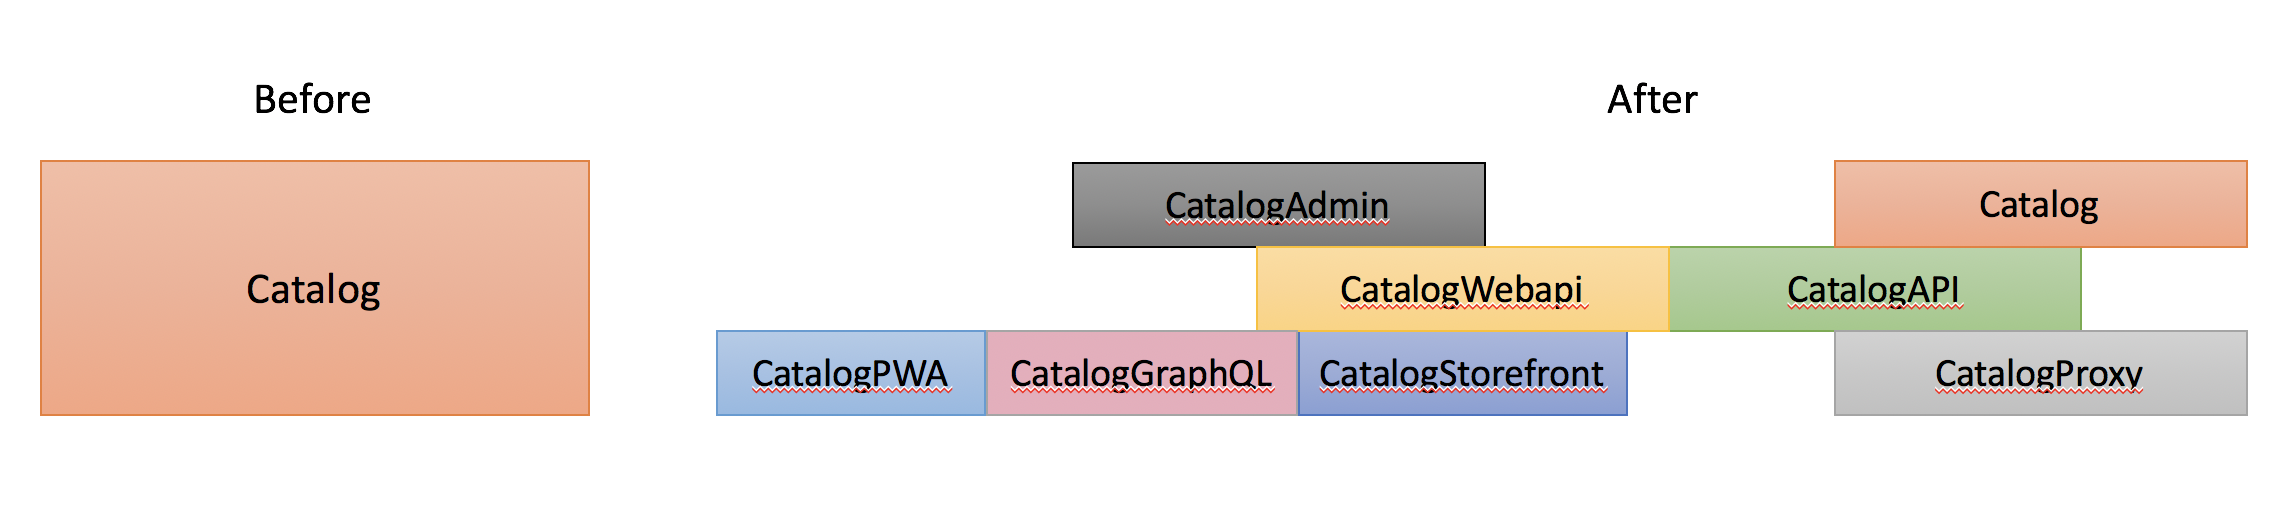
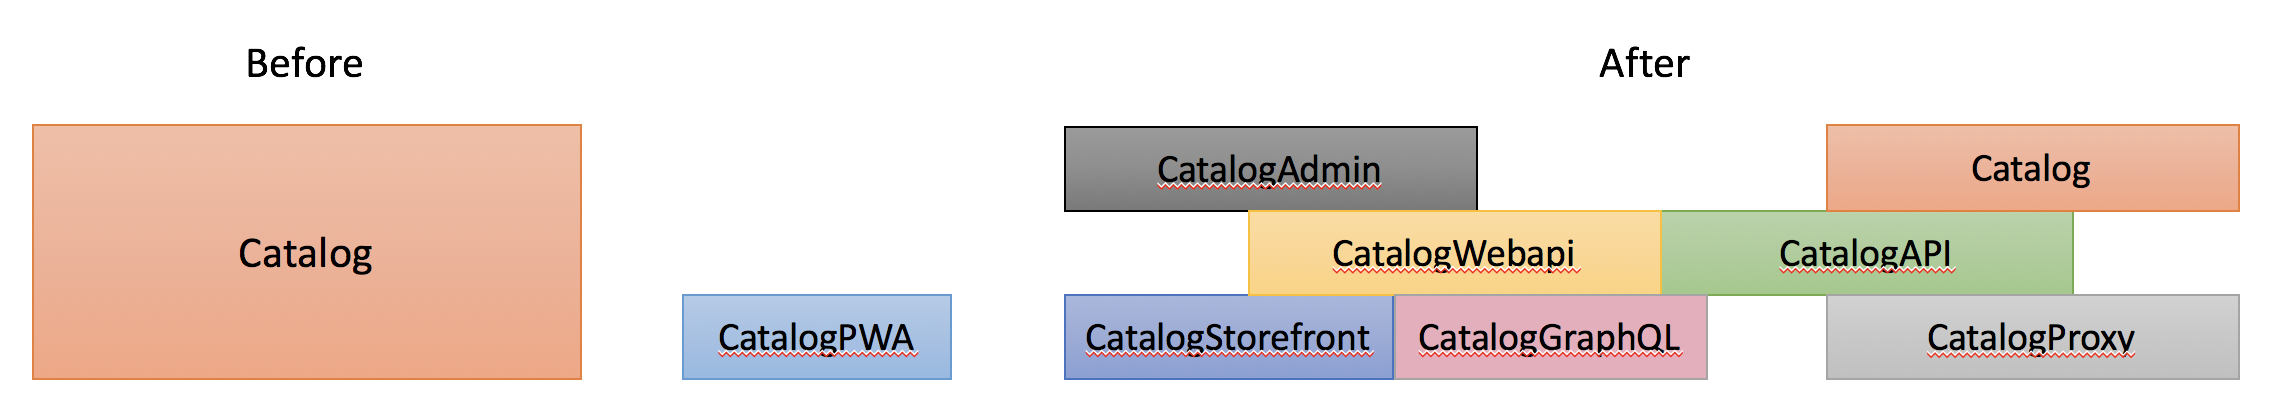
Renambed components to services, updated split modules diagram

diff --git a/design-documents/component-isolation.md b/design-documents/component-isolation.md
@@ -1,4 +1,4 @@
-# Magento Component Isolation
+# Magento Service Isolation
 
 Magento Commerce was designed as a monolithic modular application: all codebase is split to functional modules but is deployed together. This has following implications:
 
@@ -19,15 +19,15 @@ On data level, ability to split checkout and order management databases was intr
 
 ![Current State](component-isolation/current-state.png)
 
-### PWA & Component isolation
+### PWA & Service isolation
 The decision to move all UI to browser as a part of PWA effort significantly reduces number of undesired dependencies in codebase: most dependencies reside in UI, and will not be present in PWA implementation.
 
 ## Desired state
-Magento _components_ (Catalog, Checkout, Order Management, ...) are isolated and only communicate through service contracts.
+Magento _services_ (Catalog, Checkout, Order Management, ...) are isolated and only communicate through service contracts.
 
-A _component_ is a part of Magento application that consists of one or more modules and is responsible for an distinct business behavior.
+A _service_ is a part of Magento application that consists of one or more modules and is responsible for an distinct business behavior.
 
-Examples of components:
+Examples of services:
    
 - Catalog
     - Magento/Catalog
@@ -43,46 +43,46 @@ Examples of components:
     - Magento/CheckoutAgreements
     - ...
     
-Unlike in the initial plan, the requirement to communicate through service contracts only applies to components, not modules. This significantly reduces the scope of required modifications and makes implementations and customizations easier. 
+Unlike in the initial plan, the requirement to communicate through service contracts only applies to services, not modules. This significantly reduces the scope of required modifications and makes implementations and customizations easier. 
 
 Upsides:
 
-* scalability – components can be scaled independently on Magento instances
-* deployment – components can be deployed independently
-* replaceability – it is easier for System Integrators to replace Magento built-in components with third-party systems
+* scalability – services can be scaled independently on Magento instances
+* deployment – services can be deployed independently
+* replaceability – it is easier for System Integrators to replace Magento built-in services with third-party systems
 * teams have clear ownership boundaries
-* easier to comprehend components
-* clear contracts between components
-* granular releases - components can be released independently
-* in isolated components it is easier to use data storage with more appropriate storage models.
-* easier to experiment and replace components
+* easier to comprehend services
+* clear contracts between services
+* granular releases - services can be released independently
+* in isolated services it is easier to use data storage with more appropriate storage models.
+* easier to experiment and replace services
 
 Downsides:
 
-* Performance hit of inter-component communication
+* Performance hit of inter-service communication
 * Instance maintenance – it is harder to manage distributed Magento instance. This needs to be compensated with improved logging, tracking, debugging, and deployment capabilities.
-* Any component can be replaced with a remote implementation
+* Any service can be replaced with a remote implementation
 
-![Desired State](component-isolation/desired-state.png)
+![Desired State](service-isolation/desired-state.png)
 
 Current deployment model (single app) must be supported for clients that don't require advanced scalability.
 
-Following application components are identified to be isolated as of now (the list is not final):
+Following application services are identified to be isolated as of now (the list is not final):
 
-![Isolatd magento components](component-isolation/magento-components.png) 
+![Isolatd magento services](service-isolation/magento-services.png) 
 
 ## Implementation
-To achieve the desired state two sets of changes are required: platform modifications and component isolation.
+To achieve the desired state two sets of changes are required: platform modifications and service isolation.
 
 ### Platform modifications
 
 To support current ecosystem the platform and main APIs will have to stay the same (PHP, Magento Framework).
 
-Part of platform work is required to allow independent component deployment (module separation, application framework, configurable service invokers, backends for frontends, support for split extensions in marketplace), other part is good to have to make independently deployed components manageable (cloud native, development environments).
+Part of platform work is required to allow independent service deployment (module separation, application framework, configurable service invokers, backends for frontends, support for split extensions in marketplace), other part is good to have to make independently deployed services manageable (cloud native, development environments).
 
 ### Application framework
 
-Following library components are currently implemented as Magento modules. Many modules depend on these library components. It clutters module dependency graph. Effectively they will be required for most application components. So these library components (or application-agnostic parts of them) should be moved to `Magento\Framework` to reduce clutter in module dependencies:
+Following library components are currently implemented as Magento modules. Many modules depend on these library components. It clutters module dependency graph. Effectively they will be required for most application services. So these library components (or application-agnostic parts of them) should be moved to `Magento\Framework` to reduce clutter in module dependencies:
 
 * Amqp
 * Config
@@ -99,19 +99,19 @@ Following library components are currently implemented as Magento modules. Many 
 
 As of 2.3-develop, Magento service contracts can be called in process, or through REST, SOAP, and AMQP APIs by remote clients. But remote calls require manual implementation of client. Magento should be able to invoke service contracts either locally or remotely (if a service whose contract is called is deployed remotely). Two options to implement this are discussed:
 
-* Introduce service contract invoker that should be used by every client to invoke service contract. For local calls such invoker would just call a service contract, for remote components it would do a remote call. This option gives more control over service contract invocation, but requires modification of all current service contract clients
+* Introduce service contract invoker that should be used by every client to invoke service contract. For local calls such invoker would just call a service contract, for remote services it would do a remote call. This option gives more control over service contract invocation, but requires modification of all current service contract clients
 
-* Auto-generated remote call proxies for service contracts that represent remote components. This option does not require code modifications but will produce harder to debug code
+* Auto-generated remote call proxies for service contracts that represent remote services. This option does not require code modifications but will produce harder to debug code
 
-Remote invoker must contain improved logging, timeouts, retry logic, and circuit breakers to avoid failure state propagation between components.
+Remote invoker must contain improved logging, timeouts, retry logic, and circuit breakers to avoid failure state propagation between services.
 
 First iteration of remote implementation should be based on existing synchronous APIs.
 
-Long-term goal: To avoid the leaky abstraction of remote invocations, new generation of service contracts has to expose asynchronous nature in APIs to avoid runtime coupling between components.
+Long-term goal: To avoid the leaky abstraction of remote invocations, new generation of service contracts has to expose asynchronous nature in APIs to avoid runtime coupling between services.
 
 ### Backends for frontends
 
-Following entry point components need to be created for two main application clients: storefront and admin apps (admin, integrations). These endpoint components (backends for frontends or BFFs) should act as façades to corresponding functionality:
+Following entry point services need to be created for two main application clients: storefront and admin apps (admin, integrations). These endpoint services (backends for frontends or BFFs) should act as façades to corresponding functionality:
 
 * Storefront PWA BFF
   * launch PWA Application shell with page data (product information, category information)
@@ -134,7 +134,7 @@ To support real and proxied implementations of modules, the APIs should be extra
 
 Following diagram demonstrates the split:
 
-![Split module](component-isolation/split-modules.png)
+![Split module](service-isolation/split-modules.png)
 
 * *CatalogPWA* - js module deployed on PWA host
 * *CatalogStorefront* - deployed on GraphQL endpoint
@@ -147,9 +147,9 @@ Following diagram demonstrates the split:
 
 ### Support for split extensions on Marketplace
 
-Current data model of Marketplace does not support multiple packages per extension. Since an extension can customize multiple components, it should be possible to create an extension that consists of multiple composer packages. Such extensions must be supported by Magento Marketplace.
+Current data model of Marketplace does not support multiple packages per extension. Since an extension can customize multiple services, it should be possible to create an extension that consists of multiple composer packages. Such extensions must be supported by Magento Marketplace.
 
-Example: MyVendorShippingMethod extension modifies shipment and checkout components. MyVendorShippingMethod extension consists of 2 composer packages in Marketplace: MyVendorShipment and MyVendorCheckout.
+Example: MyVendorShippingMethod extension modifies shipment and checkout services. MyVendorShippingMethod extension consists of 2 composer packages in Marketplace: MyVendorShipment and MyVendorCheckout.
 
 ### Cloud-native
 
@@ -158,7 +158,7 @@ Following changes are proposed:
 
 #### Application configuration
 
-Magento components must support centralized application configuration management.
+Magento services must support centralized application configuration management.
 
 >NOTE: supported since 2.2 with configuration stored in env.php.
 
@@ -191,8 +191,8 @@ Output:
 The tool should be able to:
 * generate list of composer.json based on following input:
     * list of extensions that need to be installed
-    * list of components deployed separately (`composer.json` files to generate)
-* check compatibility of API versions between modules of different components
+    * list of services deployed separately (`composer.json` files to generate)
+* check compatibility of API versions between modules of different services
 * analyse the distributed instance of magento:
     * check api version compatibility
     * display the list of distributed extensions
@@ -209,11 +209,11 @@ To make development of distributed instances easier, new developer environment m
 
 A prototype that uses Minikube VM with Kubernetes cluster is prepared. 
 
->NOTE: Distributed component deployment will make current Commerce/B2B linking approach impossible, so new approach of internal development environment installation must be used: installation of Magento modules from “path” type composer repositories (prototype working with Minikube is available).
+>NOTE: Distributed service deployment will make current Commerce/B2B linking approach impossible, so new approach of internal development environment installation must be used: installation of Magento modules from “path” type composer repositories (prototype working with Minikube is available).
 
 ## Design principles
 
-General principles to follow for component isolation:
+General principles to follow for service isolation:
 
 * Current service contracts SHOULD BE preserved for backward compatibility
 * All new service contracts MUST follow design principles described in technical guidelines + following principles:
@@ -222,13 +222,13 @@ General principles to follow for component isolation:
 * All new service contracts SHOULD expose asynchronous APIs
 * All new state modifying operations SHOULD expose bulk APIs
 * All service operations MUST BE stateless
-* There MUST BE NO data dependencies between components.
+* There MUST BE NO data dependencies between services.
 * Command & query responsibility segregation – storefront APIs for data immutable in storefront (catalog) should be optimized for data retrieval
 
-Detailed design must be prepared for every component.
+Detailed design must be prepared for every service.
 
 ## Implementation approach
 
-Iterative approach must be used for component isolation: one component at a time is extracted from monolithic application.
+Iterative approach must be used for service isolation: one service at a time is extracted from monolithic application.
 
 Checkout is proposed to be the first service to extract.
